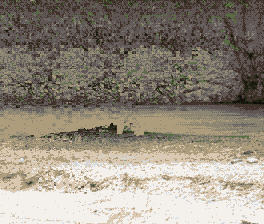
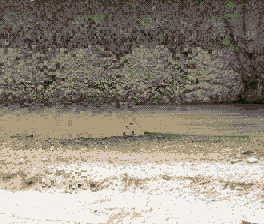
phd world: clean posed ears, dry grass, no straight cut mid-pan
- Head turn sweeps only the joint about the poll (no ear); the whole head is
  drawn once at its final angle and each posed ear is drawn clean from the
  transformed base/tip, so grazing frames have no striped comb.
- Grass: low ragged dry clump (tan/olive, checker-dithered, dark green only at
  the roots) with thin seed stalks the grazing muzzle meets.
- Sand line is max(foliage bottom, shore) in every column (shore extended
  behind the trees): no column switch in the bank top. Straight vertical tree
  edges are frayed with smooth noise.

Changed region(s): [[0.0, 0.0, 0.8788, 0.875], [0.9394, 0.5938, 1.0, 0.6562]]

diff --git a/scripts/scene_art/phd.py b/scripts/scene_art/phd.py
@@ -23,8 +23,9 @@ HORSE = [(992, 1051), (994, 1024), (1005, 1005), (1021, 991), (1042, 980), (1069
          (1138, 1137), (1106, 1134), (1093, 1131), (1091, 1179), (1089, 1232), (1088, 1285), (1089, 1341),
          (1072, 1347), (1064, 1320), (1056, 1345), (1032, 1347), (1017, 1344), (1016, 1296), (1014, 1243),
          (1010, 1189), (1002, 1136), (994, 1093)]
-# The river's near shore (water above belongs to `far`), left to right.
-SHORE = [(1544, 1012), (1800, 1016), (2050, 1022), (2304, 1028)]
+# The river's near shore (water above belongs to `far`), left to right. It runs on behind the
+# trees, so the sand line is max(foliage bottom, shore) in every column: no column switch.
+SHORE = [(781, 1022), (1300, 1016), (1544, 1012), (1800, 1016), (2050, 1022), (2304, 1028)]
 # Top of the bright sand bar under the hooves (bank above, ground below).
 BAR = [(781, 1330), (1010, 1336), (1240, 1342), (1350, 1320), (1500, 1300), (1700, 1305),
        (1950, 1314), (2130, 1302), (2304, 1308)]
@@ -58,6 +59,26 @@ def wobble(w, rng, amp, scales=(5.0, 2.3)):
             for x in range(w)]
 
 
+def fray(tree, W, H, b, rng):
+    """Breaks straight vertical foliage edges: where a left or right edge keeps the same column
+    for 4+ rows, each row is eaten back 0-3 px by smooth noise (what shows is far's underpaint)."""
+    ph = rng.random() * 6.3
+    for side in (1, -1):                        # 1: right edges, -1: left edges
+        edge = {}
+        for y in range(H):
+            for x in range(1, W - 1):
+                i = y * W + x
+                if tree[i] and y < b[x] and not tree[i + side]:
+                    edge[(x, y)] = 1
+        for (x, y) in edge:
+            run = sum(1 for d in (-2, -1, 1, 2) if (x, y + d) in edge)
+            if run < 3: continue
+            k = round(1.5 + 1.5 * math.sin(y * 0.9 + ph) + rng.choice((-0.5, 0, 0.5)))
+            for j in range(max(0, k)):
+                xx = x - side * j
+                if 0 <= xx < W: tree[y * W + xx] = 0
+
+
 def build(world, render, to_world):
     W, H = world.size
     rng = random.Random(1840)
@@ -73,8 +94,8 @@ def build(world, render, to_world):
     tree = bytearray(1 if is_tree(x, y) and not horse[y * W + x] else 0 for y in range(H) for x in range(W))
     tree = C.majority(tree, W, H, 1)
 
-    # b: first sand row per column. Trees: bottom-up, the lowest tree pixel with tree above it;
-    # water columns: the shore line; behind the horse: interpolated between its sides.
+    # b: first sand row per column: the lowest tree pixel with tree above it, or the shore if
+    # that is lower; behind the horse: interpolated between its sides.
     shore = line_y(SHORE, to_world, W)
     hx = [x for x in range(W) if any(horse[y * W + x] for y in range(H))]
     hx0, hx1 = min(hx) - 1, max(hx) + 1
@@ -84,7 +105,7 @@ def build(world, render, to_world):
         for y in range(150, 90, -1):
             if all(tree[(y - j) * W + x] for j in range(3)):
                 y0 = y + 1; break
-        b.append(max(y0, round(shore[x])) if shore[x] < 160 and x >= to_world(1544, 0)[0] else y0)
+        b.append(max(y0, round(shore[x])))
     for x in range(hx0 + 1, hx1):
         t = (x - hx0) / (hx1 - hx0)
         b[x] = round(b[hx0] * (1 - t) + b[hx1] * t) + rng.choice((0, 1, 1, 2))
@@ -128,6 +149,7 @@ def build(world, render, to_world):
     Qtree = list(render(tree_img).get_flattened_data())
 
     far = Qfar
+    fray(tree, W, H, b, rng)
     trees = [Qtree[i] if (tree[i] and i // W < b[i % W]) or hem_mask[i] else KEY for i in range(W * H)]
     bank = [Qbg[i] if b[i % W] <= i // W < g[i % W] + 6 else KEY for i in range(W * H)]
     ground = [Qbg[i] if g[i % W] <= i // W < f[i % W] + 8 else KEY for i in range(W * H)]
@@ -155,9 +177,11 @@ BOX = (30, 112, 84, 86)                 # sprite frame: x, y, w, h
 WITHERS = (66.0, 125.0)                 # neck pivot (the neck and head turn about it)
 THROAT = (89.0, 150.0)                  # the neck/body cut runs WITHERS -> THROAT
 POLL = (87.0, 134.0)                    # head pivot, on the head's back edge
+JOINT_R = 8                             # radius about the poll swept through the head turn
 HEAD = [(84, 119), (110, 117), (111, 152), (106, 158), (95, 158), (89, 151), (85, 141)]
 EAR = [(102, 118), (110, 116), (110, 127), (103, 127)]   # the near (right) ear
 EAR_BASE = (104.5, 126.5)
+EAR_TIP = (107.5, 119.5)
 TAIL_GAP = (46, 49, 151, 188)           # x0, x1 (incl), y0, y1: between the hind legs
 # (neck turn about the withers, head turn about the poll on top of it), degrees: up, lowering,
 # low, grazing, grazing (chew). The neck keeps its length: from this front three-quarter view the
@@ -181,6 +205,26 @@ RAMP = [(PAPER, 228), (CREAM, 190), (TAN, 150), (DKTAN, 120), (GREY, 95), (DUSK,
 
 def side(a, b, p):
     return (b[0] - a[0]) * (p[1] - a[1]) - (b[1] - a[1]) * (p[0] - a[0])
+
+
+def draw_ear(out, bw, bh, base, tip):
+    """A clean ear: 3 px wide at the base, 1 at the tip; pale front edge, tan core, grey back
+    edge, dark tip. Returns the pixels written."""
+    dx, dy = tip[0] - base[0], tip[1] - base[1]
+    n = math.hypot(dx, dy)
+    px_, py_ = -dy / n, dx / n                    # left normal (front edge of the ear)
+    wrote = {}
+    for k in range(int(n * 4) + 1):
+        t = k / (n * 4)
+        cx, cy = base[0] + dx * t, base[1] + dy * t
+        half = 1 if t < 0.5 else 0.5 if t < 0.8 else 0
+        for o, col in ((half, CREAM), (-half, GREY), (0, TAN)):
+            x, y = int(math.floor(cx + px_ * o)), int(math.floor(cy + py_ * o))
+            if 0 <= x < bw and 0 <= y < bh and (x, y) not in wrote or col == TAN:
+                wrote[(x, y)] = DKTAN if t > 0.85 else col
+    for (x, y), col in wrote.items():
+        if 0 <= x < bw and 0 <= y < bh: out[y * bw + x] = col
+    return set(wrote)
 
 
 def horse_sprites(world, horse):
@@ -226,11 +270,23 @@ def horse_sprites(world, horse):
             return [hd[i] if hd[i] != KEY else (KEY if head_m[i] and moving[i] else rest[i]) for i in range(bw * bh)]
         out = list(body)
         a = math.radians(phi)
+        hd = [v if not ear_m[i] else KEY for i, v in enumerate(head)]   # posed ears are drawn clean below
         moved = C.rotate(neck, bw, bh, a, W_, out, bw, bh, to=W_)
         P2 = rot(P_, W_, a)
+        # Sweep only the joint (head pixels near the poll, no ear) through the head turn, so the
+        # throat has no gap; then the whole head once, at its final angle, on top. Sweeping the
+        # whole head left a tooth of ear and face edge at every step.
+        joint = [v if v != KEY and not ear_m[i] and (i % bw + .5 - P_[0]) ** 2 + (i // bw + .5 - P_[1]) ** 2 < JOINT_R ** 2
+                 else KEY for i, v in enumerate(hd)]
         steps = max(1, int(abs(psi) / 4))
-        for k in range(steps + 1):                 # sweep the head turn: no gap at the throat
-            moved |= C.rotate(hd, bw, bh, a + math.radians(psi) * k / steps, P_, out, bw, bh, to=P2)
+        for k in range(steps):
+            moved |= C.rotate(joint, bw, bh, a + math.radians(psi) * k / steps, P_, out, bw, bh, to=P2)
+        moved |= C.rotate(hd, bw, bh, a + math.radians(psi), P_, out, bw, bh, to=P2)
+        # the ear, hand-drawn per pose: a tapered wedge from its base to its (flicked) tip
+        place = lambda q: rot((q[0] - P_[0] + P2[0], q[1] - P_[1] + P2[1]), P2, a + math.radians(psi))
+        base = place(loc(EAR_BASE))
+        tip = place(rot(loc(EAR_TIP), loc(EAR_BASE), math.radians(-ear)))
+        moved |= draw_ear(out, bw, bh, base, tip)
         clean = C.despeckle(out, bw, bh)           # tidy the moved pixels only: the body never changes
         return [clean[i] if (i % bw, i // bw) in moved else out[i] for i in range(bw * bh)]
 
@@ -277,29 +333,36 @@ GRASS_BASE = (85.0, 194)                # root of the clump, just in front of th
 
 
 def grass_sprite(rng):
-    """A clump of tall bunchgrass in front of the forelegs, drawn after the horse so the grazing
-    muzzle dips into it from behind. A fountain of single-pixel blades, green with dry tips.
+    """Dry bunchgrass in front of the forelegs, drawn after the horse so the grazing muzzle dips
+    into it from behind: a low, ragged, spreading clump (blades rooted along a few px of sand,
+    leaning out) with a few thin seed stalks that rise to the muzzle. Dry tan and olive, checker-
+    dithered like the sand, a touch of dark green only at the roots.
     Frames: 0 rest, 1 tips lean right, 2 tips lean left (sway: rest -> 1 -> rest -> 2 -> rest)."""
     gx, gy, gw, gh = GRASS_BOX
     cx, base = GRASS_BASE
-    blades = []
-    for k in range(16):
-        u = (k / 15) * 2 - 1 + rng.uniform(-0.05, 0.05)            # -1 .. 1, left .. right
-        hgt = (31 - 15 * abs(u + 0.15) ** 1.4) * rng.uniform(0.8, 1.0)
-        blades.append((cx + 3.5 * u + rng.uniform(-0.6, 0.6), hgt, u, k % 3 == 0))
-    blades.sort(key=lambda b: (not b[3], -b[1]))                   # dark back blades first
+    blades = []                                   # (root x, root y, height, lean, kind)
+    for k in range(22):                           # the low clump
+        u = rng.uniform(-1, 1)
+        blades.append((cx + 7 * u, base - rng.choice((0, 0, 1, 1, 2)), rng.uniform(4, 11) * (1 - 0.35 * abs(u)),
+                       u * rng.uniform(3, 7), 'leaf'))
+    for rx, h, lean in ((cx - 0.5, 28, 1.0), (cx + 1.5, 26, 2.5), (cx - 2.5, 21, -1.5), (cx + 3.5, 17, 4.5), (cx + 0.5, 13, -3.0)):
+        blades.append((rx, base - 1, h, lean, 'stalk'))   # seed stalks: the muzzle meets their tops
+    tone = {  # (low, high) pairs dithered on a checker; by height along the blade
+        'leaf': [(0.15, (DKGREEN, OLIVE)), (0.5, (OLIVE, DKTAN)), (1.01, (DKTAN, TAN))],
+        'stalk': [(0.2, (OLIVE, DKTAN)), (0.8, (DKTAN, DKTAN)), (1.01, (DKTAN, TAN))],
+    }
     frames = []
     for sway in (0, 1, -1):
         g = [KEY] * (gw * gh)
-        for x0, hgt, u, back in blades:
-            steps = int(hgt * 3)
+        for rx, ry, hgt, lean, kind in blades:
+            steps = max(2, int(hgt * 3))
             for st in range(steps + 1):
                 t = st / steps
-                x = x0 + u * (5 * t * t + 3 * t ** 3) + sway * 1.6 * t ** 2
-                y = base - hgt * (t - 0.3 * abs(u) ** 1.5 * t ** 3)
-                if back: col = MOSS if t < 0.45 else DKGREEN if t < 0.9 else DKTAN
-                else: col = DKGREEN if t < 0.3 else OLIVE if t < 0.88 else DKTAN
-                X, Y = round(x) - gx, round(y) - gy
-                if 0 <= X < gw and 0 <= Y < gh: g[Y * gw + X] = col
+                x = rx + lean * t ** 1.6 + sway * (1.4 if kind == 'stalk' else 0.8) * t ** 2
+                y = ry - hgt * (t - (0.25 * t ** 3 if kind == 'leaf' else 0))
+                X, Y = round(x), round(y)
+                pair = next(c for lim, c in tone[kind] if t < lim)
+                col = pair[(X + Y) % 2]
+                if 0 <= X - gx < gw and 0 <= Y - gy < gh: g[(Y - gy) * gw + X - gx] = col
         frames.append(g)
     return C.Sprite('grass', gw, gh, frames, (gx, gy), 'ground', 0)
